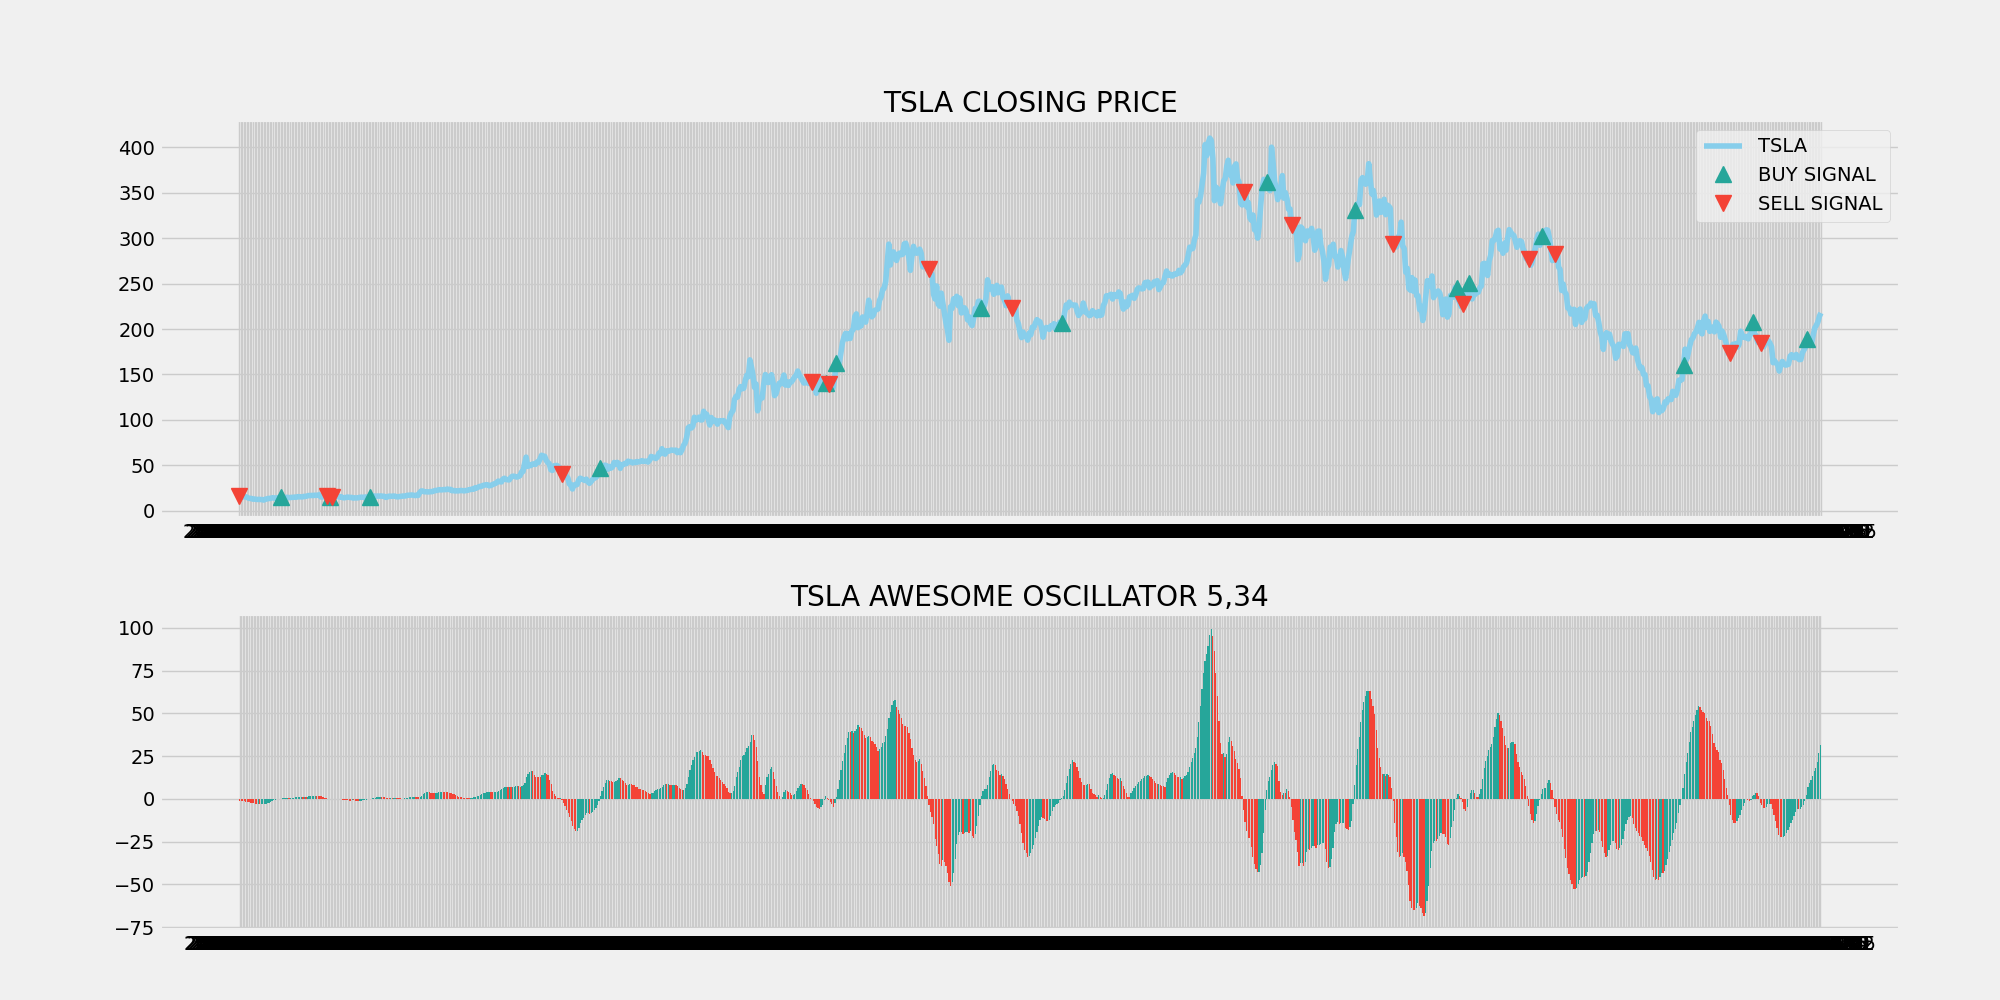
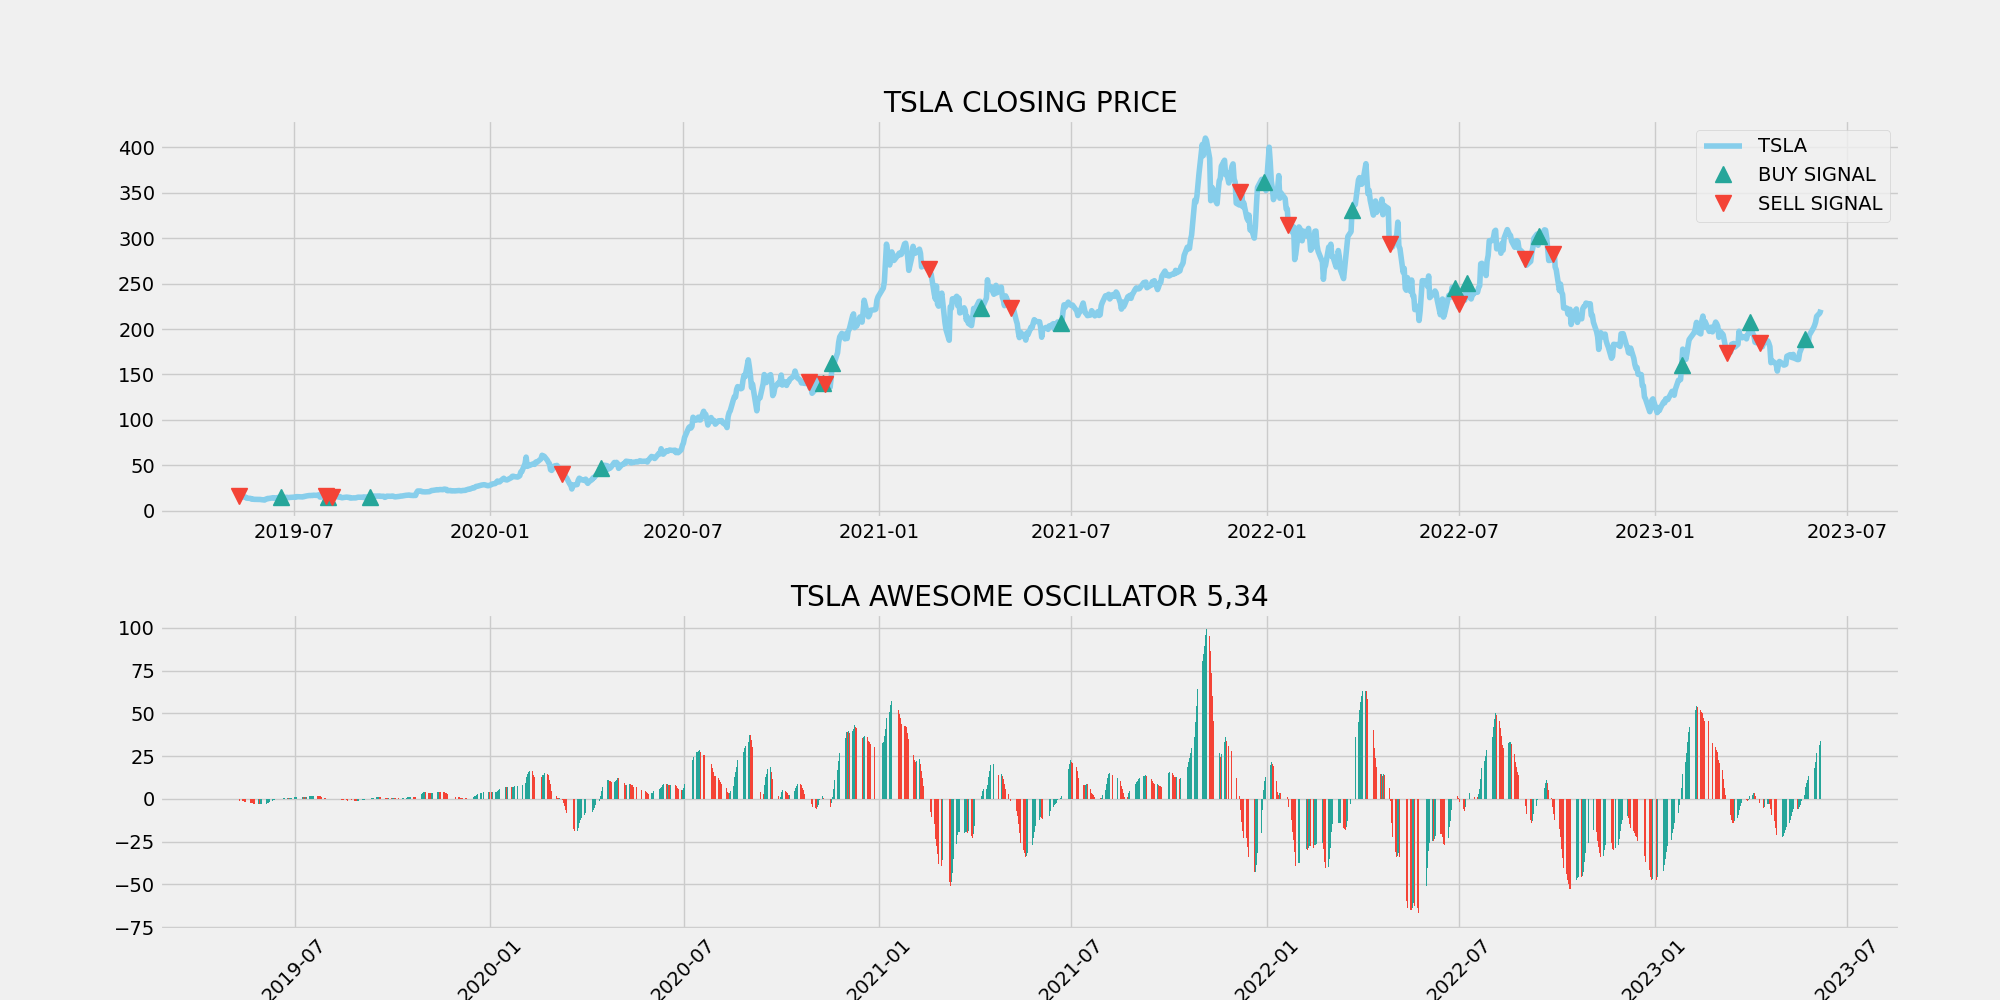
update Tue  6 Jun 2023 22:52:28 EDT

diff --git a/plotting/sma_19_close_cross.py b/plotting/sma_19_close_cross.py
@@ -1,0 +1,93 @@
+#!/usr/bin/env python3
+
+import argparse
+
+import os, datetime
+
+import pandas as pd
+import numpy as np
+import yfinance as yf
+
+import matplotlib.pyplot as plt
+plt.style.use('fivethirtyeight')
+plt.rcParams['figure.figsize'] = (20, 10)
+
+from matplotlib import rcParams
+rcParams.update({'figure.autolayout': True})
+
+import matplotlib.dates as mdates
+
+filename, ext =  os.path.splitext(os.path.basename(__file__))
+
+parser = argparse.ArgumentParser()
+parser.add_argument('-t', '--ticker', nargs='+',  type=str, help='ticker')
+args = parser.parse_args()
+
+start_date = "2020-01-01"
+
+script_dir = os.path.dirname(os.path.abspath(__file__))
+parent_dir = os.path.dirname(script_dir)
+
+for symbol in args.ticker:
+
+    filename, ext =  os.path.splitext(os.path.basename(__file__))
+
+    csv_file = "{}/data/{}_1d.csv".format( parent_dir, symbol )
+
+    # Get today's date
+    today = datetime.datetime.now().date()
+
+    # if the file was downloaded today, read from it
+    if  ( ( os.path.exists ( csv_file ) ) and ( datetime.datetime.fromtimestamp ( os.path.getmtime ( csv_file ) ).date() == today ) ):
+        data = pd.read_csv ( csv_file, index_col='Date' )
+    else:
+        # Download data
+        data = yf.download ( symbol, start=start_date, progress=False)
+        data.to_csv ( csv_file )
+
+    # SMA
+    data["SMA_19"] = data["Adj Close"].rolling(window=19).mean()
+    data = data.dropna()
+
+    latest_price = data['Adj Close'][-1]
+
+    # Buy/sell signals for  SMA crosses
+    data["Signal"] = 0.0
+    data['SMA_19_Close_Signal'] = np.select(
+        [ ( data['SMA_19'].shift(1) <  data['Adj Close'].shift(1) ) & ( data['SMA_19'] >  data['Adj Close'] ) ,
+          ( data['SMA_19'].shift(1) >  data['Adj Close'].shift(1) ) & ( data['SMA_19'] <  data['Adj Close'] ) ],
+    [-2, 2])
+
+
+    # Plot the trading signals
+    #plt.figure(figsize=(14,7))
+
+    # Chart 1 year
+    data = data.tail(365)
+
+    # Required otherwise year is 1970
+    data.index = pd.to_datetime(data.index)
+
+    plt.plot ( data['Adj Close'],  alpha = 0.3, linewidth = 2,                  label = symbol + ' Price'  )
+    plt.plot ( data["SMA_19"], alpha = 0.6, linewidth = 2, color='#FF006E', label = 'SMA_19' )
+
+    plt.plot ( data.loc[data["SMA_19_Close_Signal"] ==  2.0].index, data["SMA_19"][data["SMA_19_Close_Signal"] ==  2.0], "^", markersize=10, color="g", label = 'BUY SIGNAL')
+    plt.plot ( data.loc[data["SMA_19_Close_Signal"] == -2.0].index, data["SMA_19"][data["SMA_19_Close_Signal"] == -2.0], "v", markersize=10, color="r", label = 'SELL SIGNAL')
+
+    plt.legend(loc = 'upper left')
+    plt.title(f'{symbol}_{filename}')
+
+    plt.xticks(rotation=45)
+
+    plt.xlabel('Date')
+    plt.ylabel('Closing Price')
+    plt.legend(loc = 'upper left')
+    plt.annotate(f'Current Price: ${latest_price:.2f}', ( data.index[-1], latest_price ), xytext=(-50, 30), textcoords='offset points', arrowprops=dict(arrowstyle="->", linewidth=1))
+
+    plt.xticks(rotation=45)
+    plt.grid(True)
+
+    #plt.show()
+    filename = "{}/plotting/_plots/{}_{}.png".format ( parent_dir, symbol, filename )
+    plt.savefig ( filename )
+

diff --git a/plotting/sma_20_close_cross.py b/plotting/sma_20_close_cross.py
@@ -1,0 +1,93 @@
+#!/usr/bin/env python3
+
+import argparse
+
+import os, datetime
+
+import pandas as pd
+import numpy as np
+import yfinance as yf
+
+import matplotlib.pyplot as plt
+plt.style.use('fivethirtyeight')
+plt.rcParams['figure.figsize'] = (20, 10)
+
+from matplotlib import rcParams
+rcParams.update({'figure.autolayout': True})
+
+import matplotlib.dates as mdates
+
+filename, ext =  os.path.splitext(os.path.basename(__file__))
+
+parser = argparse.ArgumentParser()
+parser.add_argument('-t', '--ticker', nargs='+',  type=str, help='ticker')
+args = parser.parse_args()
+
+start_date = "2020-01-01"
+
+script_dir = os.path.dirname(os.path.abspath(__file__))
+parent_dir = os.path.dirname(script_dir)
+
+for symbol in args.ticker:
+
+    filename, ext =  os.path.splitext(os.path.basename(__file__))
+
+    csv_file = "{}/data/{}_1d.csv".format( parent_dir, symbol )
+
+    # Get today's date
+    today = datetime.datetime.now().date()
+
+    # if the file was downloaded today, read from it
+    if  ( ( os.path.exists ( csv_file ) ) and ( datetime.datetime.fromtimestamp ( os.path.getmtime ( csv_file ) ).date() == today ) ):
+        data = pd.read_csv ( csv_file, index_col='Date' )
+    else:
+        # Download data
+        data = yf.download ( symbol, start=start_date, progress=False)
+        data.to_csv ( csv_file )
+
+    # SMA
+    data["SMA_20"] = data["Adj Close"].rolling(window=20).mean()
+    data = data.dropna()
+
+    latest_price = data['Adj Close'][-1]
+
+    # Buy/sell signals for  SMA crosses
+    data["Signal"] = 0.0
+    data['SMA_20_Close_Signal'] = np.select(
+        [ ( data['SMA_20'].shift(1) <  data['Adj Close'].shift(1) ) & ( data['SMA_20'] >  data['Adj Close'] ) ,
+          ( data['SMA_20'].shift(1) >  data['Adj Close'].shift(1) ) & ( data['SMA_20'] <  data['Adj Close'] ) ],
+    [-2, 2])
+
+
+    # Plot the trading signals
+    #plt.figure(figsize=(14,7))
+
+    # Chart 1 year
+    data = data.tail(365)
+
+    # Required otherwise year is 1970
+    data.index = pd.to_datetime(data.index)
+
+    plt.plot ( data['Adj Close'],  alpha = 0.3, linewidth = 2,                  label = symbol + ' Price'  )
+    plt.plot ( data["SMA_20"], alpha = 0.6, linewidth = 2, color='#FF006E', label = 'SMA_20' )
+
+    plt.plot ( data.loc[data["SMA_20_Close_Signal"] ==  2.0].index, data["SMA_20"][data["SMA_20_Close_Signal"] ==  2.0], "^", markersize=10, color="g", label = 'BUY SIGNAL')
+    plt.plot ( data.loc[data["SMA_20_Close_Signal"] == -2.0].index, data["SMA_20"][data["SMA_20_Close_Signal"] == -2.0], "v", markersize=10, color="r", label = 'SELL SIGNAL')
+
+    plt.legend(loc = 'upper left')
+    plt.title(f'{symbol}_{filename}')
+
+    plt.xticks(rotation=45)
+
+    plt.xlabel('Date')
+    plt.ylabel('Closing Price')
+    plt.legend(loc = 'upper left')
+    plt.annotate(f'Current Price: ${latest_price:.2f}', ( data.index[-1], latest_price ), xytext=(-50, 30), textcoords='offset points', arrowprops=dict(arrowstyle="->", linewidth=1))
+
+    plt.xticks(rotation=45)
+    plt.grid(True)
+
+    #plt.show()
+    filename = "{}/plotting/_plots/{}_{}.png".format ( parent_dir, symbol, filename )
+    plt.savefig ( filename )
+

diff --git a/strategies/sma_19_close_cross.py b/strategies/sma_19_close_cross.py
@@ -2,8 +2,7 @@
 # isort: skip_file
 # --- Do not remove these libs ---
 
-# SMA 5, SMA 8
-data = __SMA  ( data, 20 )
+data = __SMA  ( data, 19 )
 
 
 def backtest_strategy(stock, start_date ):
@@ -25,7 +24,7 @@ def backtest_strategy(stock, start_date ):
         data.to_csv ( csv_file )
 
     # Calculate indicator
-    data = __SMA (data, 20)
+    data = __SMA (data, 19)
 
     # Set initial conditions
     position = 0
@@ -36,14 +35,14 @@ def backtest_strategy(stock, start_date ):
     # Loop through data
     for i in range(len(data)):
         # Buy signal
-        if data["Adj Close"][i] > data["SMA_20"][i] and data["Adj Close"][i - 1] < data["SMA_20"][i - 1] and position == 0:
+        if data["Adj Close"][i] > data["SMA_19"][i] and data["Adj Close"][i - 1] < data["SMA_19"][i - 1] and position == 0:
             position = 1
             buy_price = data["Adj Close"][i]
             today = data.index[i]
             #print(f"Buying {stock} at {buy_price} @ {today}")
 
         # Sell signal
-        elif data["Adj Close"][i] < data["SMA_20"][i] and data["Adj Close"][i - 1]  > data["SMA_20"][i - 1] and position == 1:
+        elif data["Adj Close"][i] < data["SMA_19"][i] and data["Adj Close"][i - 1]  > data["SMA_19"][i - 1] and position == 1:
             position = 0
             sell_price = data["Adj Close"][i]
             today = data.index[i]
@@ -60,14 +59,10 @@ def backtest_strategy(stock, start_date ):
     return percentage + '%'
 
 
-# Price crossover SMA 20
-if ( ( data["Adj Close"][-1] > data["SMA_20"][-1] ) and ( data["Adj Close"][-2] < data["SMA_20"][-2] ) ):
-    print_log ( '111_SMA_20_Close_cross', 'LONG', [ 'SMA_20', 'Close' ] , backtest_strategy ( ticker , '2020-01-01' ) )
+# Price crossover SMA 19
+if ( ( data["Adj Close"][-1] > data["SMA_19"][-1] ) and ( data["Adj Close"][-2] < data["SMA_19"][-2] ) ):
+    print_log ( 'sma_19_close_cross.py', 'LONG', [ 'SMA_19', 'Close', 'cross' ] , backtest_strategy ( ticker , '2020-01-01' ) )
 
-# Price crossunder SMA 20
-if ( ( data["Adj Close"][-1] < data["SMA_20"][-1] ) and ( data["Adj Close"][-2] > data["SMA_20"][-2] ) ):
-    print_log ( '111_SMA_20_Close_cross', 'SHORT', [ 'SMA_20', 'Close' ] , backtest_strategy ( ticker , '2020-01-01' ) )
-
-
-
-
+# Price crossunder SMA 19
+if ( ( data["Adj Close"][-1] < data["SMA_19"][-1] ) and ( data["Adj Close"][-2] > data["SMA_19"][-2] ) ):
+    print_log ( 'sma_19_close_cross.py', 'SHORT', [ 'SMA_19', 'Close', 'cross' ] , backtest_strategy ( ticker , '2020-01-01' ) )

diff --git a/strategies/sma_20_close_cross.py b/strategies/sma_20_close_cross.py
@@ -2,7 +2,8 @@
 # isort: skip_file
 # --- Do not remove these libs ---
 
-data = __SMA  ( data, 19 )
+# SMA 5, SMA 8
+data = __SMA  ( data, 20 )
 
 
 def backtest_strategy(stock, start_date ):
@@ -24,7 +25,7 @@ def backtest_strategy(stock, start_date ):
         data.to_csv ( csv_file )
 
     # Calculate indicator
-    data = __SMA (data, 19)
+    data = __SMA (data, 20)
 
     # Set initial conditions
     position = 0
@@ -35,14 +36,14 @@ def backtest_strategy(stock, start_date ):
     # Loop through data
     for i in range(len(data)):
         # Buy signal
-        if data["Adj Close"][i] > data["SMA_19"][i] and data["Adj Close"][i - 1] < data["SMA_19"][i - 1] and position == 0:
+        if data["Adj Close"][i] > data["SMA_20"][i] and data["Adj Close"][i - 1] < data["SMA_20"][i - 1] and position == 0:
             position = 1
             buy_price = data["Adj Close"][i]
             today = data.index[i]
             #print(f"Buying {stock} at {buy_price} @ {today}")
 
         # Sell signal
-        elif data["Adj Close"][i] < data["SMA_19"][i] and data["Adj Close"][i - 1]  > data["SMA_19"][i - 1] and position == 1:
+        elif data["Adj Close"][i] < data["SMA_20"][i] and data["Adj Close"][i - 1]  > data["SMA_20"][i - 1] and position == 1:
             position = 0
             sell_price = data["Adj Close"][i]
             today = data.index[i]
@@ -59,13 +60,13 @@ def backtest_strategy(stock, start_date ):
     return percentage + '%'
 
 
-# Price crossover SMA 19
-if ( ( data["Adj Close"][-1] > data["SMA_19"][-1] ) and ( data["Adj Close"][-2] < data["SMA_19"][-2] ) ):
-    print_log ( '111_SMA_19_Close_cross', 'LONG', [ 'SMA_19', 'Close' ] , backtest_strategy ( ticker , '2020-01-01' ) )
+# Price crossover SMA 20
+if ( ( data["Adj Close"][-1] > data["SMA_20"][-1] ) and ( data["Adj Close"][-2] < data["SMA_20"][-2] ) ):
+    print_log ( 'sma_20_close_cross.py', 'LONG', [ 'SMA_20', 'Close', 'cross' ] , backtest_strategy ( ticker , '2020-01-01' ) )
 
-# Price crossunder SMA 19
-if ( ( data["Adj Close"][-1] < data["SMA_19"][-1] ) and ( data["Adj Close"][-2] > data["SMA_19"][-2] ) ):
-    print_log ( '111_SMA_19_Close_cross', 'SHORT', [ 'SMA_19', 'Close' ] , backtest_strategy ( ticker , '2020-01-01' ) )
+# Price crossunder SMA 20
+if ( ( data["Adj Close"][-1] < data["SMA_20"][-1] ) and ( data["Adj Close"][-2] > data["SMA_20"][-2] ) ):
+    print_log ( 'sma_20_close_cross.py', 'SHORT', [ 'SMA_20', 'Close', 'cross' ] , backtest_strategy ( ticker , '2020-01-01' ) )
 
 
 

diff --git a/plotting/ao.py b/plotting/ao.py
@@ -87,8 +87,6 @@ parent_dir = os.path.dirname(script_dir)
 
 for symbol in args.ticker:
 
-    print  ("\n")
-
     filename, ext =  os.path.splitext(os.path.basename(__file__))
 
     csv_file = "{}/data/{}_1d.csv".format( parent_dir, symbol )
@@ -110,6 +108,9 @@ for symbol in args.ticker:
 
     buy_price, sell_price, ao_signal = implement_ao_crossover( data['Adj Close'], data['AO'])
 
+    # Required otherwise year is 1970
+    data.index = pd.to_datetime(data.index)
+
     ax1 = plt.subplot2grid((10,1), (0,0), rowspan = 5, colspan = 1)
     ax2 = plt.subplot2grid((10,1), (6,0), rowspan = 4, colspan = 1)
 
@@ -119,12 +120,15 @@ for symbol in args.ticker:
     ax1.legend()
     ax1.set_title(f'{symbol} CLOSING PRICE')
 
+
     for i in range(len( data )):
         if data['AO'][i-1] > data['AO'][i]:
             ax2.bar( data.index[i], data['AO'][i], color = '#f44336')
         else:
             ax2.bar ( data.index[i], data['AO'][i], color = '#26a69a')
     ax2.set_title(f'{symbol} AWESOME OSCILLATOR 5,34')
+
+    plt.xticks(rotation=45)
 
     #plt.show()
     #filename = "_plots/{}_{}.png".format ( symbol, filename )

diff --git a/plotting/adx.py b/plotting/adx.py
@@ -121,12 +121,15 @@ if __name__ == '__main__':
         ax1.set_title(f'{symbol} CLOSING PRICE')
         ax1.plot ( data.index, buy_price, marker='^', color='#26a69a', markersize=14, linewidth=0, label='BUY SIGNAL')
         ax1.plot ( data.index, sell_price, marker='v', color='#f44336', markersize=14, linewidth=0, label='SELL SIGNAL')
+
         ax2.plot ( data['ADX_14_plus_di'], color='#26a69a', label='+ DI 14', linewidth=3, alpha=0.3)
         ax2.plot ( data['ADX_14_minus_di'], color='#f44336', label='- DI 14', linewidth=3, alpha=0.3)
         ax2.plot ( data['ADX_14'], color='#2196f3', label='ADX 14', linewidth=3)
         ax2.axhline (25, color='grey', linewidth=2, linestyle='--')
         ax2.legend()
         ax2.set_title(f'{symbol} ADX 14')
+
+        plt.xticks(rotation=45)
 
         #plt.show()
         filename = "{}/plotting/_plots/{}_{}.png".format ( parent_dir, symbol, filename )
